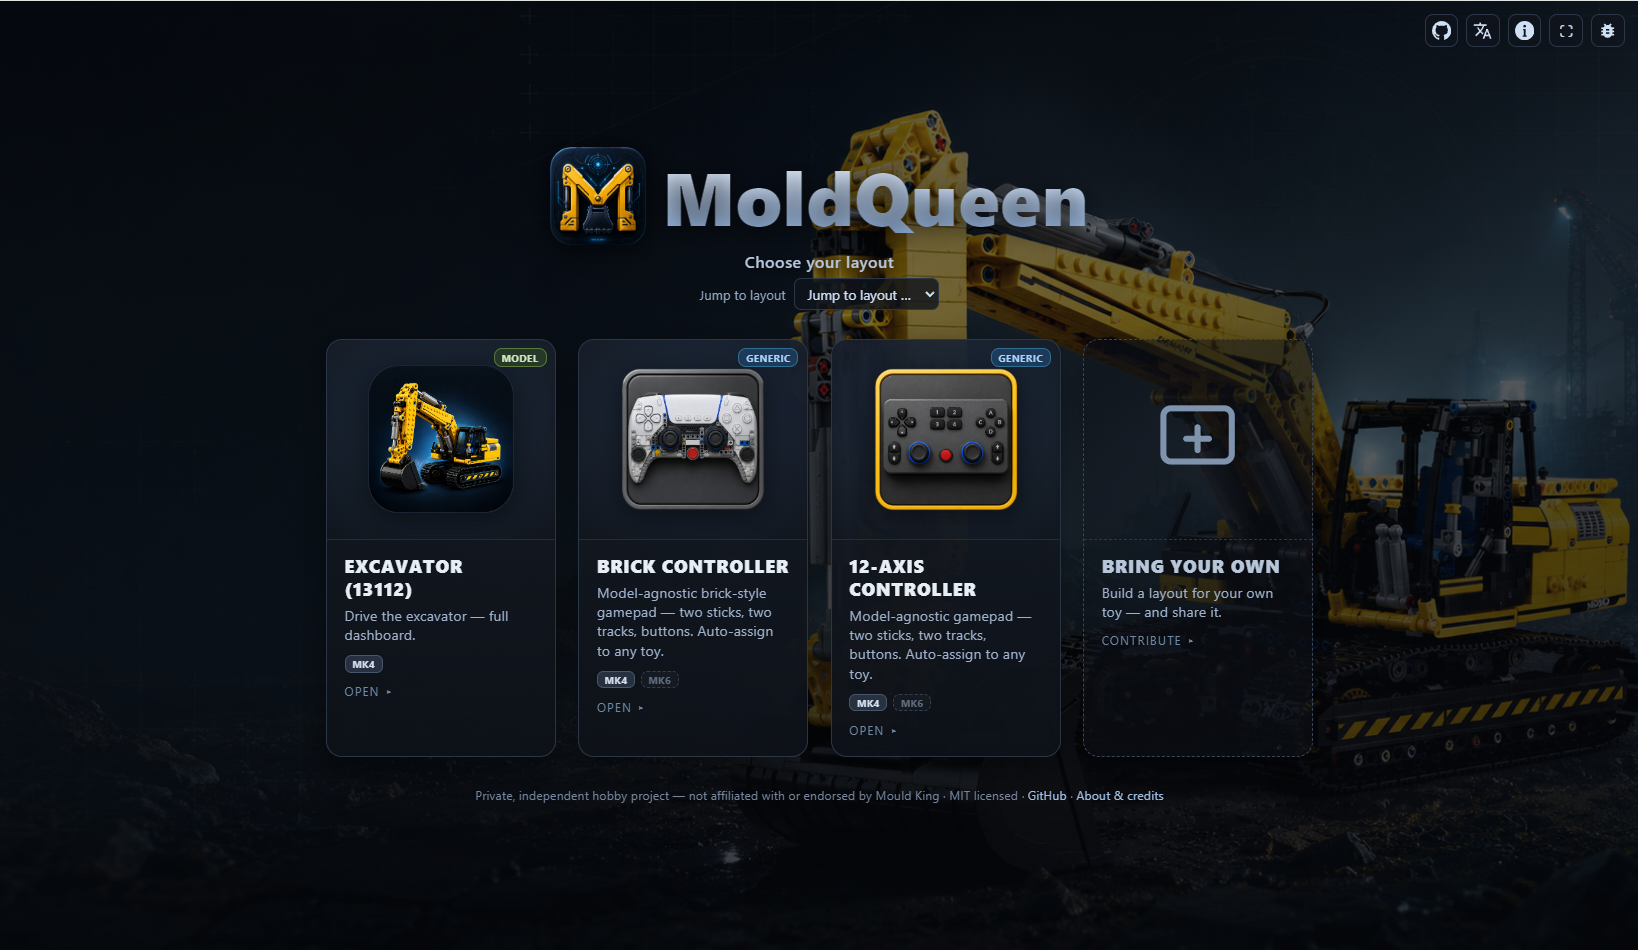
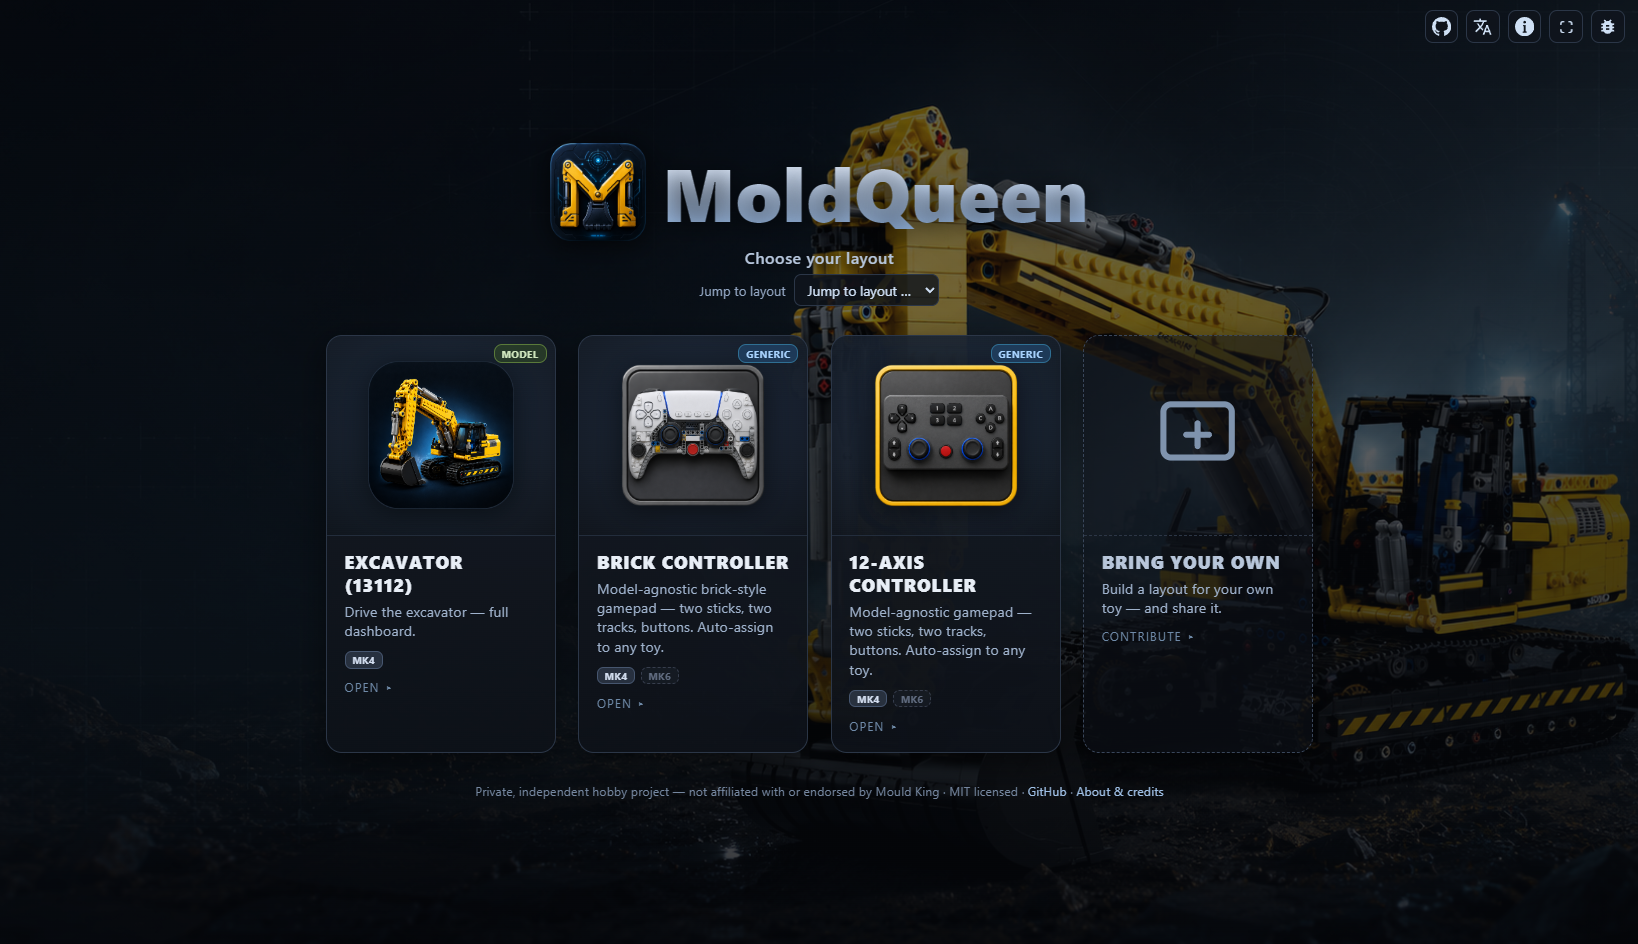
site: combine layouts sections, fix cropped image, 3-in-row hover-expand tiles, two-image phone section, tighten gap
Five layout refinements to the docs/ site (verified headless in Chrome, no console errors):

1. Tightened the gap before the layouts section — a trailing .row no longer adds its bottom padding on top of the section padding (.row:last-child{padding-bottom:0}), so features→layouts now matches the other section transitions (~100px trailing, was ~160).

2. Merged the startpage ('Choose your machine.') and the tiles ('One client, many machines.') into ONE #layouts section: a single heading, then the chooser showcase, the generic-layouts row, and the live tiles. Removed #start.

3. The generic-layouts image is no longer cropped — new .shot.full takes the image's natural aspect ratio (rendered ratio now equals natural, 1.883), showing both controllers fully.

4. Layout tiles are now a single flex row of three; hovering a tile grows it to ~2x its width (flex-grow) while the other two shrink to make room, staying on one line and revealing the hovered tile's richer info. Stacks (and shows full info) on mobile. Live raw layouts.json fetch + badges intact.

5. 'Everything on the phone' now shows two distinct visuals instead of three overlaid: the phone render standalone, plus a separate open/closed-menu frame where the menu opens on hover.

diff --git a/docs/styles.css b/docs/styles.css
@@ -102,6 +102,7 @@ code,pre{font-family:var(--mono)}
 .row{display:grid;grid-template-columns:1.05fr .95fr;gap:clamp(1.6rem,4vw,4.5rem);align-items:center;
   padding-block:clamp(2.2rem,5vh,4rem)}
 .row + .row{border-top:1px solid var(--line)}
+.row:last-child{padding-bottom:0}   /* don't let a trailing row inflate the section gap */
 .row.rev .media{order:2}
 .row .copy .num{font-family:var(--mono);font-size:.9rem;color:var(--accent);letter-spacing:.1em;margin-bottom:.9rem}
 .row .copy h3{font-size:clamp(1.5rem,2.6vw,2.2rem);margin-bottom:.9rem}
@@ -112,21 +113,21 @@ code,pre{font-family:var(--mono)}
 .shot{width:100%;aspect-ratio:16/10;object-fit:cover;border-radius:16px;border:1px solid var(--line);
   box-shadow:0 30px 70px -34px rgba(0,0,0,.65);transition:transform .5s var(--ease),box-shadow .5s}
 .shot.contain{object-fit:contain;background:#0b0e14}
+/* show an image FULLY (no crop): container takes the image's natural aspect ratio */
+.shot.full{aspect-ratio:auto;height:auto;object-fit:fill;background:transparent}
 .row:hover .shot{transform:translateY(-6px);box-shadow:0 42px 90px -40px rgba(0,0,0,.7)}
 
-/* Android open/closed-menu overlay: phone render + a menu screen that opens on hover */
-.android-stack{position:relative}
-.android-stack .menu-ov{position:absolute;right:5%;bottom:8%;width:58%;aspect-ratio:2/1;border-radius:12px;overflow:hidden;
-  border:1px solid rgba(255,255,255,.22);box-shadow:0 24px 50px -18px rgba(0,0,0,.8);
-  transform:translateY(8px) scale(.98);transition:transform .5s var(--ease),box-shadow .5s}
-.android-stack .menu-ov img{position:absolute;inset:0;width:100%;height:100%;object-fit:cover}
-.android-stack .menu-ov .m-open{opacity:0;transition:opacity .45s var(--ease)}
-.android-stack:hover .menu-ov,.android-stack:focus-within .menu-ov{transform:none;box-shadow:0 30px 60px -16px rgba(0,0,0,.85)}
-.android-stack:hover .menu-ov .m-open{opacity:1}
-.android-stack .ov-tag{position:absolute;left:.7rem;top:.6rem;z-index:2;font-family:var(--mono);font-size:.6rem;
-  letter-spacing:.12em;text-transform:uppercase;color:#cfe0f2;background:rgba(6,10,16,.7);border:1px solid rgba(255,255,255,.2);
+/* "Everything on the phone" — two distinct visuals: the phone render, and a separate
+   open/closed-menu frame where the menu opens on hover. */
+.android-media{display:flex;flex-direction:column;gap:1rem}
+.menu-pair{position:relative;aspect-ratio:1050/524;border-radius:14px;overflow:hidden;
+  border:1px solid var(--line);box-shadow:0 24px 50px -22px rgba(0,0,0,.7)}
+.menu-pair img{position:absolute;inset:0;width:100%;height:100%;object-fit:cover}
+.menu-pair .m-open{opacity:0;transition:opacity .45s var(--ease)}
+.menu-pair:hover .m-open,.menu-pair:focus-within .m-open{opacity:1}
+.menu-pair .ov-tag{position:absolute;left:.7rem;top:.6rem;z-index:2;font-family:var(--mono);font-size:.6rem;
+  letter-spacing:.12em;text-transform:uppercase;color:#cfe0f2;background:rgba(6,10,16,.72);border:1px solid rgba(255,255,255,.2);
   padding:.2rem .5rem;border-radius:5px}
-@media (max-width:820px){.android-stack .menu-ov{width:62%;transform:none}.android-stack .menu-ov .m-open{opacity:0}}
 
 /* code blocks */
 pre.cmd{background:rgba(var(--ink-rgb),.06);border:1px solid var(--line);border-radius:10px;padding:.9rem 1.1rem;
@@ -138,11 +139,11 @@ pre.cmd .c{color:var(--faint)}
   box-shadow:0 40px 90px -44px rgba(0,0,0,.7)}
 .showcase img{width:100%;display:block}
 
-/* ---------- layouts: big, info-rich tiles with an extending-zoom hover ---------- */
-.tiles{display:grid;grid-template-columns:repeat(auto-fit,minmax(380px,1fr));gap:clamp(1.2rem,2.6vw,2rem)}
-.tile{position:relative;display:block;border-radius:20px;overflow:hidden;aspect-ratio:4/3;isolation:isolate;
-  background:var(--surface-2);border:1px solid var(--line);color:#fff;
-  transition:transform .55s var(--ease),box-shadow .55s var(--ease),border-color .3s}
+/* ---------- layouts: 3 tiles in one row; hovered tile expands and the others make room ---------- */
+.tiles{display:flex;gap:clamp(1rem,1.8vw,1.5rem);align-items:stretch}
+.tile{position:relative;display:block;flex:1 1 0%;min-width:0;height:clamp(340px,46vh,480px);
+  border-radius:20px;overflow:hidden;isolation:isolate;background:var(--surface-2);border:1px solid var(--line);color:#fff;
+  transition:flex-grow .55s var(--ease),box-shadow .55s var(--ease),border-color .3s}
 .tile img{position:absolute;inset:0;width:100%;height:100%;object-fit:cover;z-index:-2;transition:transform .8s var(--ease)}
 .tile .scrim{position:absolute;inset:0;z-index:-1;
   background:linear-gradient(0deg,rgba(5,7,11,.94) 6%,rgba(5,7,11,.55) 40%,rgba(5,7,11,.05) 74%)}
@@ -158,14 +159,23 @@ pre.cmd .c{color:var(--faint)}
   transition:max-height .5s var(--ease),opacity .4s,margin .5s}
 .tile .t-fns span{font-family:var(--mono);font-size:.68rem;color:#dce8f5;background:rgba(255,255,255,.1);
   border:1px solid rgba(255,255,255,.16);border-radius:5px;padding:.16rem .42rem}
-.tile:hover,.tile:focus-visible{transform:translateY(-12px) scale(1.025);
+/* hovered tile grows to ~2.2× a sibling's width; others shrink — the row stays one line */
+.tiles:hover .tile:not(:hover){flex-grow:.62}
+.tile:hover,.tile:focus-visible{flex-grow:2.2;
   box-shadow:0 50px 90px -30px rgba(0,0,0,.7);border-color:rgba(var(--accent-rgb),.75);z-index:2}
-.tile:hover img,.tile:focus-visible img{transform:scale(1.12)}
+.tile:hover img,.tile:focus-visible img{transform:scale(1.1)}
 .tile:hover .open,.tile:focus-visible .open{opacity:1;transform:none}
 .tile:hover .t-desc,.tile:focus-visible .t-desc,.tile:hover .t-fns,.tile:focus-visible .t-fns{max-height:8rem;opacity:1}
 .tile:hover .t-fns,.tile:focus-visible .t-fns{margin-top:.8rem}
 .tile-noimg img{display:none}
 .tile-noimg{background:repeating-linear-gradient(135deg,rgba(255,255,255,.05) 0 14px,transparent 14px 28px),#12161d}
+/* mobile: stack, no expand, show the full info on every tile */
+@media (max-width:820px){
+  .tiles{flex-direction:column}
+  .tile{flex:none;height:auto;aspect-ratio:16/10}
+  .tiles:hover .tile:not(:hover),.tile:hover,.tile:focus-visible{flex-grow:0}
+  .tile .t-desc,.tile .t-fns{max-height:8rem;opacity:1;margin-top:.7rem}
+}
 
 /* badges (on image) */
 .badge,.proto{font-size:.62rem;font-weight:800;letter-spacing:.09em;text-transform:uppercase;
@@ -230,7 +240,8 @@ body.util{--bg:#0a0d12;--bg-rgb:10,13,18;--ink:#eef2f7;--ink-rgb:238,242,247;--a
 
 /* ---------- motion preferences ---------- */
 @media (prefers-reduced-motion:reduce){
-  .tile,.tile img,.shot,.btn,.row:hover .shot,.android-stack .menu-ov,.android-stack .menu-ov .m-open{transition:none!important}
-  .tile:hover,.tile:focus-visible{transform:none}.tile:hover img{transform:none}
+  .tile,.tile img,.shot,.btn,.row:hover .shot,.menu-pair .m-open{transition:none!important}
+  .tiles:hover .tile:not(:hover),.tile:hover,.tile:focus-visible{flex-grow:1}  /* no expand */
+  .tile:hover img{transform:none}
   body{transition:none}
 }

diff --git a/docs/index.html b/docs/index.html
@@ -102,32 +102,22 @@
       </div>
     </section>
 
-    <!-- 3. STARTPAGE / CHOOSER ============================================ -->
-    <section class="section" id="start">
-      <div class="wrap">
-        <div class="section-head">
-          <p class="eyebrow">The app</p>
-          <h2>Choose your machine.</h2>
-          <p class="lead">Open moldqueen and you land on the chooser — every layout as a card, with the same live Generic / Model and protocol badges you see below. Pick one and drive.</p>
-        </div>
-        <div class="showcase">
-          <img src="assets/start_page_preview.png" alt="The moldqueen startpage — a chooser of layout cards" loading="lazy" />
-        </div>
-      </div>
-    </section>
-
-    <!-- 4. LAYOUTS (generic showcase + big live tiles) ==================== -->
+    <!-- 3. LAYOUTS (chooser + generic showcase + big live tiles, one section) === -->
     <section class="section" id="layouts">
       <div class="wrap">
         <div class="section-head">
           <p class="eyebrow">Layouts</p>
           <h2>One client, many machines.</h2>
-          <p class="lead">Each toy gets a layout — a control surface over the same API. <em>Model</em> layouts are tuned to a specific machine; <em>generic</em> layouts drive any twelve-motor toy.</p>
+          <p class="lead">Open moldqueen and you land on the chooser — every layout as a card. Pick one and drive. <em>Model</em> layouts are tuned to a specific machine; <em>generic</em> layouts drive any twelve-motor toy.</p>
+        </div>
+
+        <div class="showcase">
+          <img src="assets/start_page_preview.png" alt="The moldqueen startpage — a chooser of layout cards" loading="lazy" />
         </div>
 
         <div class="row rev">
           <div class="media">
-            <img class="shot" src="assets/generic_layout_preview.png" alt="The two generic layouts — a brick-style gamepad and a 12-axis grid" loading="lazy" />
+            <img class="shot full" src="assets/generic_layout_preview.png" alt="The two generic layouts — a brick-style gamepad and a 12-axis grid" loading="lazy" />
           </div>
           <div class="copy">
             <div class="num">Generic layouts</div>
@@ -139,7 +129,7 @@
         <div class="tiles" id="tiles">
           <noscript><div class="tiles-fail">Enable JavaScript to load the live layouts, or browse them in the <a href="https://github.com/jrichter24/moldqueen/tree/main/client/web" rel="noopener">repository</a>.</div></noscript>
         </div>
-        <p class="tiles-note">Cards are pulled live from the project manifest. Badges mirror the app: <strong>Generic</strong> vs <strong>Model</strong>, and the supported protocol — <strong>MK4</strong> today, a greyed <strong>MK6</strong> on the <a href="#roadmap">roadmap</a>. Hover for details.</p>
+        <p class="tiles-note">Cards are pulled live from the project manifest. Badges mirror the app: <strong>Generic</strong> vs <strong>Model</strong>, and the supported protocol — <strong>MK4</strong> today, a greyed <strong>MK6</strong> on the <a href="#roadmap">roadmap</a>. Hover a card to expand it.</p>
       </div>
     </section>
 
@@ -153,10 +143,11 @@
         </div>
 
         <div class="row">
-          <div class="media android-stack">
+          <div class="media android-media">
+            <!-- A: the phone render, standalone -->
             <img class="shot" src="assets/android_bricks_on_phone_preview.png" alt="A phone in landscape running moldqueen, driving a brick-built controller" loading="lazy" />
-            <!-- overlay effect: the app's menu opens on hover (closed → open) -->
-            <div class="menu-ov">
+            <!-- B: the open/closed-menu effect — the menu opens on hover -->
+            <div class="menu-pair">
               <span class="ov-tag">Menu — hover to open</span>
               <img class="m-closed" src="assets/android_closed_menu_preview.png" alt="The app with the menu closed" loading="lazy" />
               <img class="m-open" src="assets/android_open_menu_preview.png" alt="The app with the menu open" loading="lazy" />